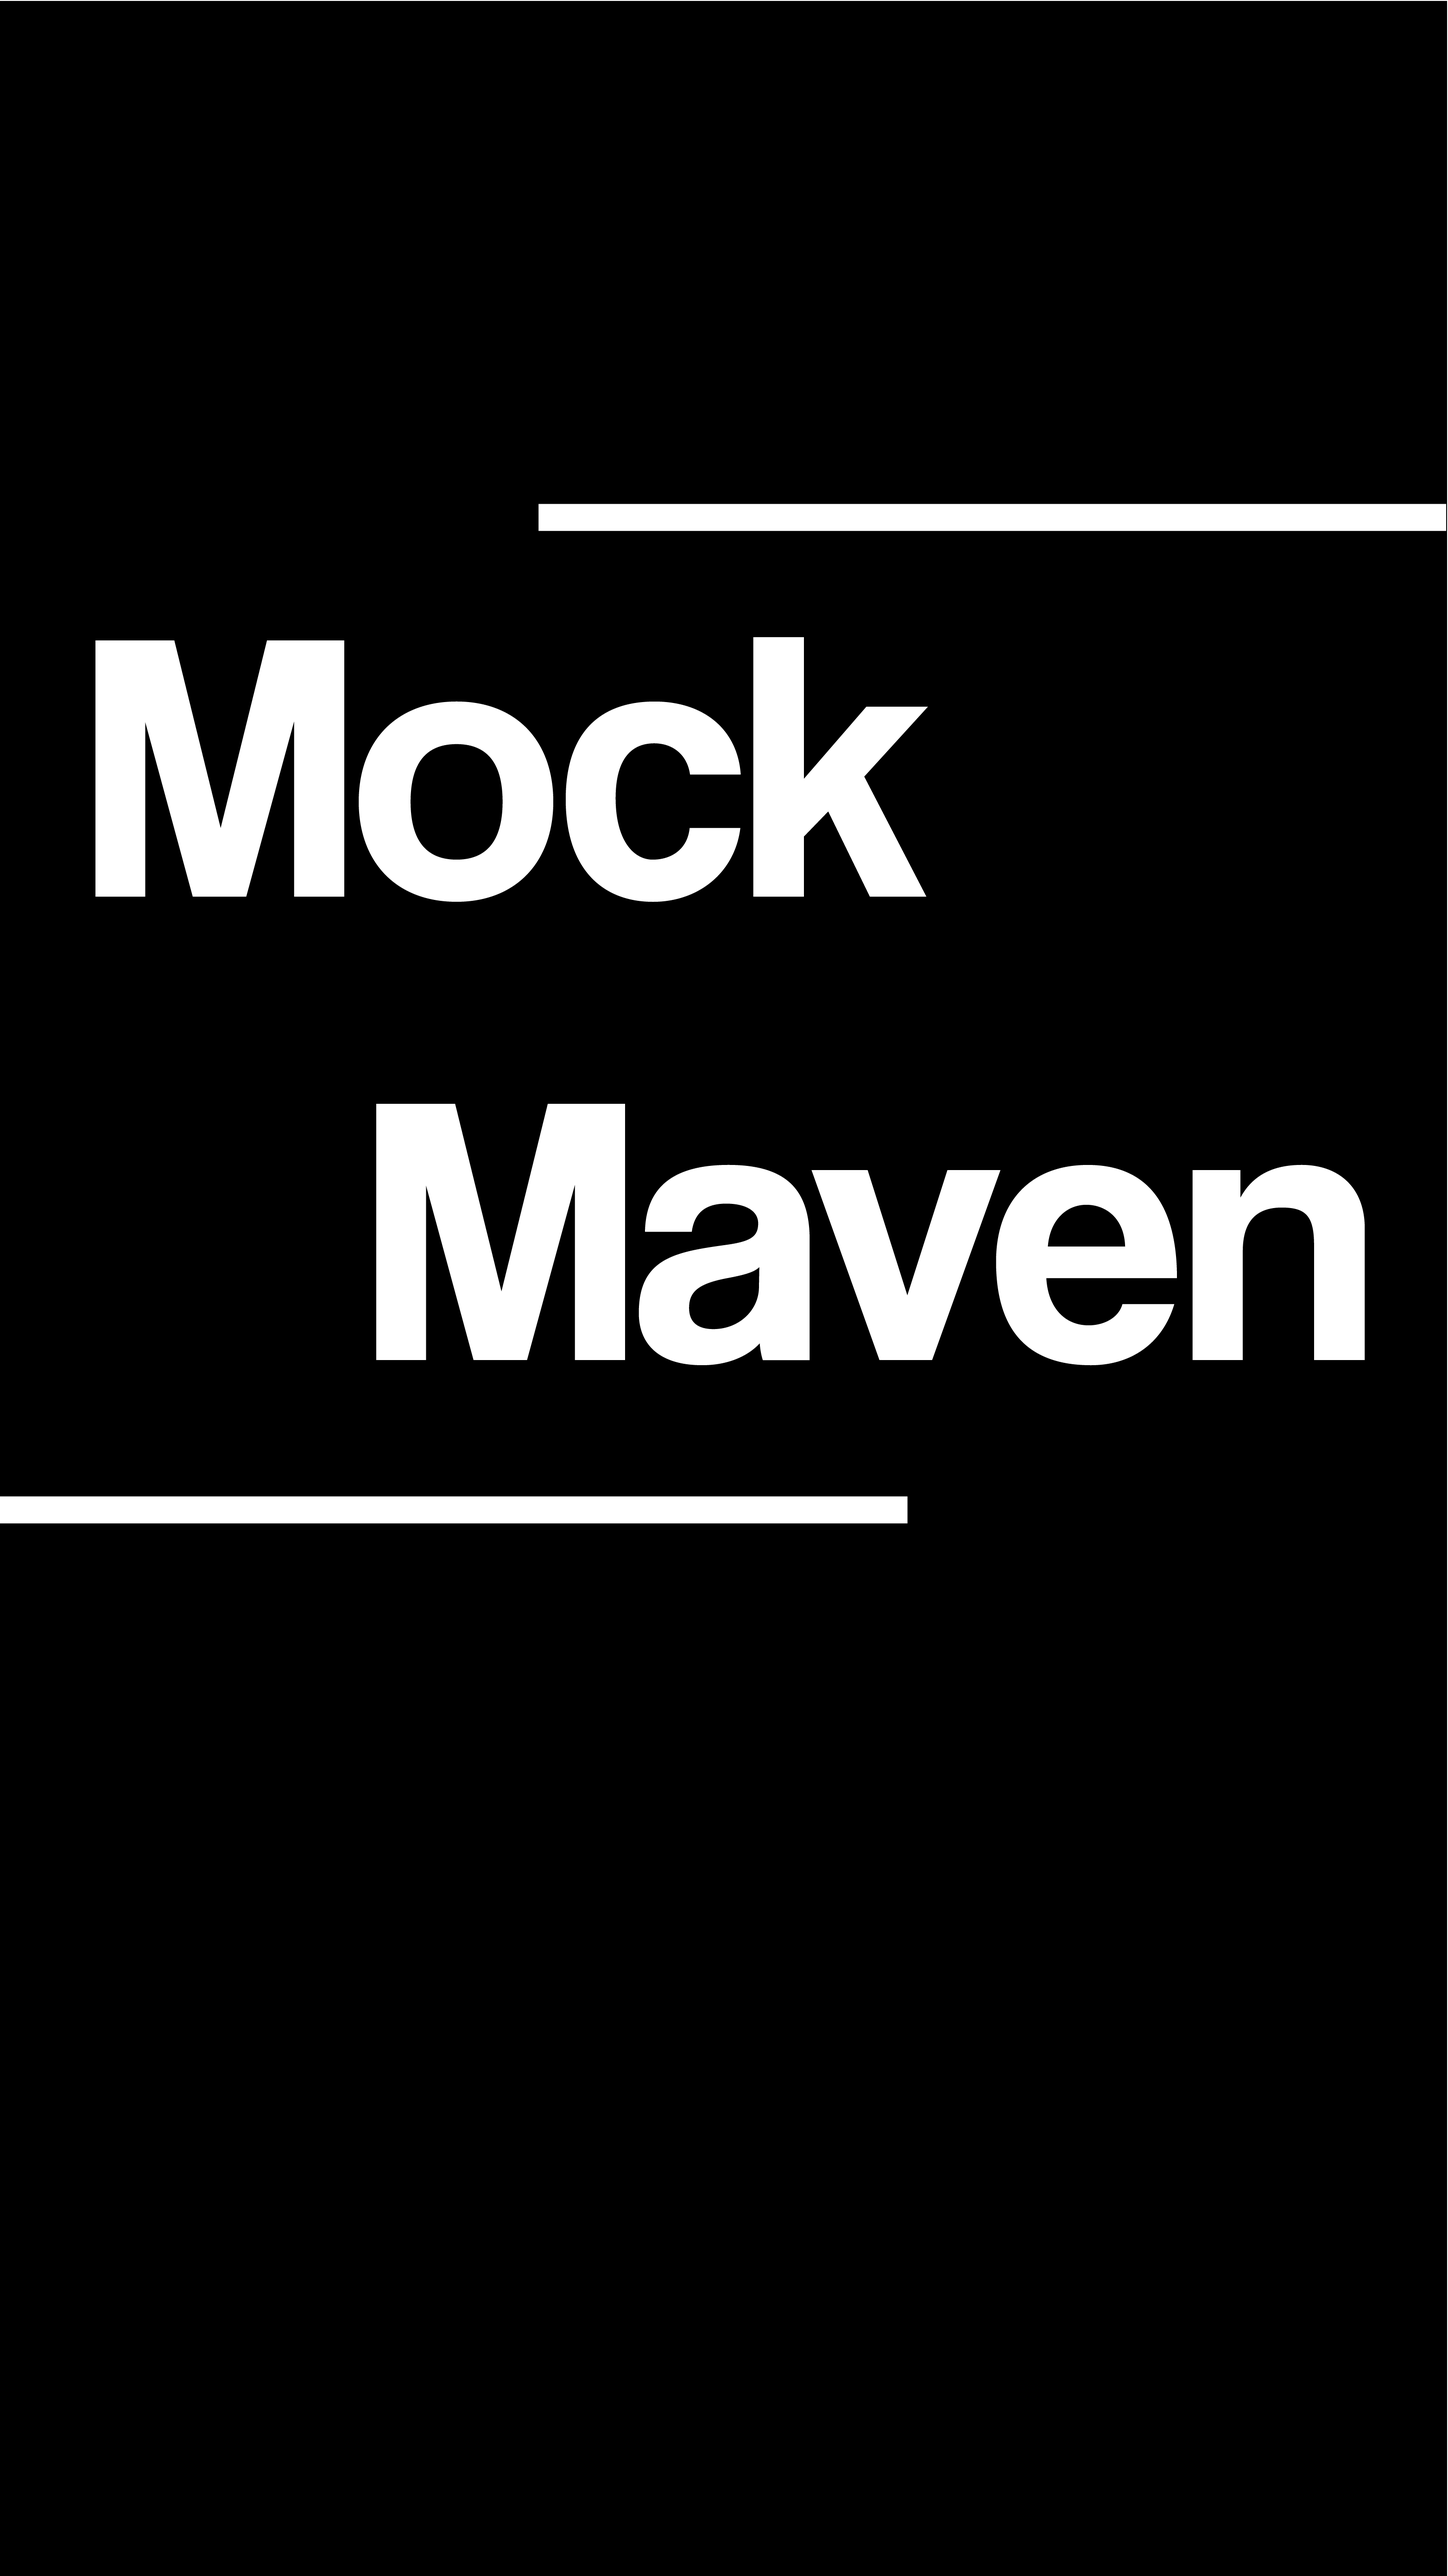
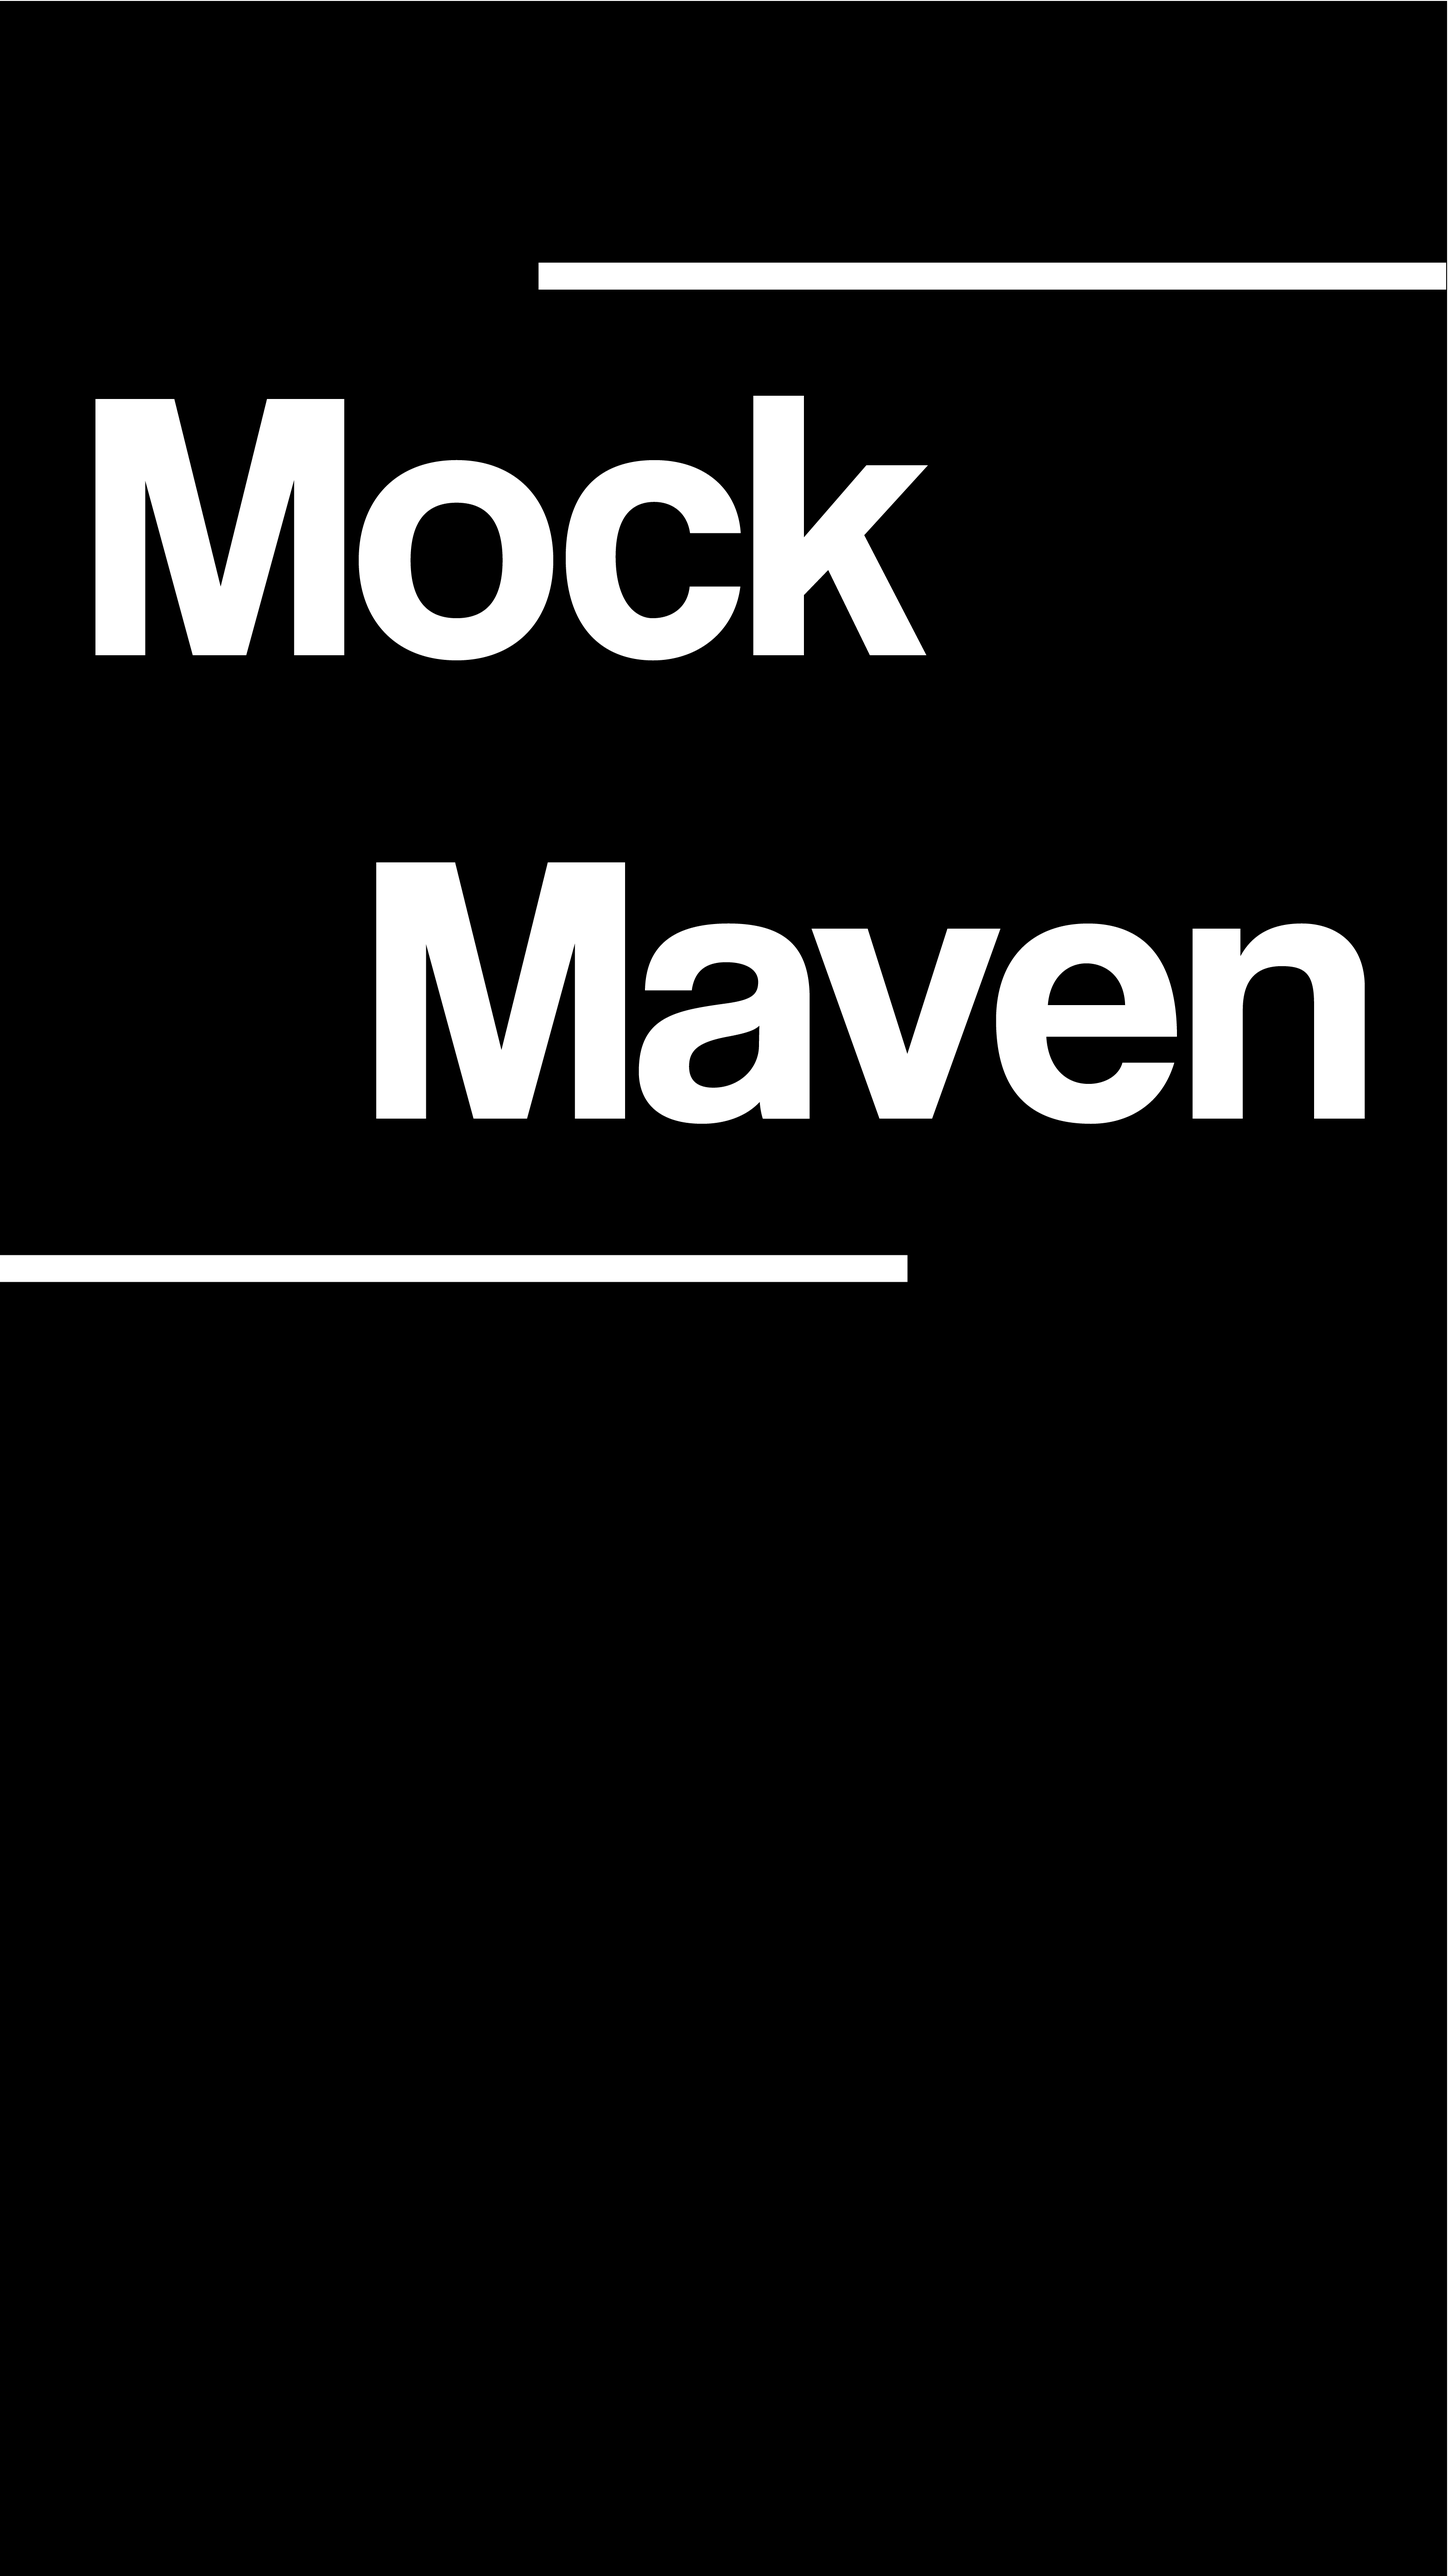
fixed image alignment, need to think about nav button colors

Changed region(s): [[0.0, 0.1556, 1.0, 0.5291], [0.3725, 0.0934, 1.0, 0.1245], [0.0, 0.5602, 0.6208, 0.5913]]

diff --git a/app/views/main/home.js b/app/views/main/home.js
@@ -71,9 +71,9 @@ class Home extends Component {
         />
 
         <ActionButton buttonColor="rgba(0,0,0,1)" backdrop={<View style={{flex: 1, alignItems: 'center'}}>
-          <Image
-                    style={{flex: 1}}
-                    source={require('../../assets/MenuBG2.jpg')}
+        <Image
+                    style={{flex: 1, alignSelf: 'stretch', width: undefined, height: undefined}}
+                    source={require('../../assets/MockMaven.png')}
                   />
 
         </View>}>
